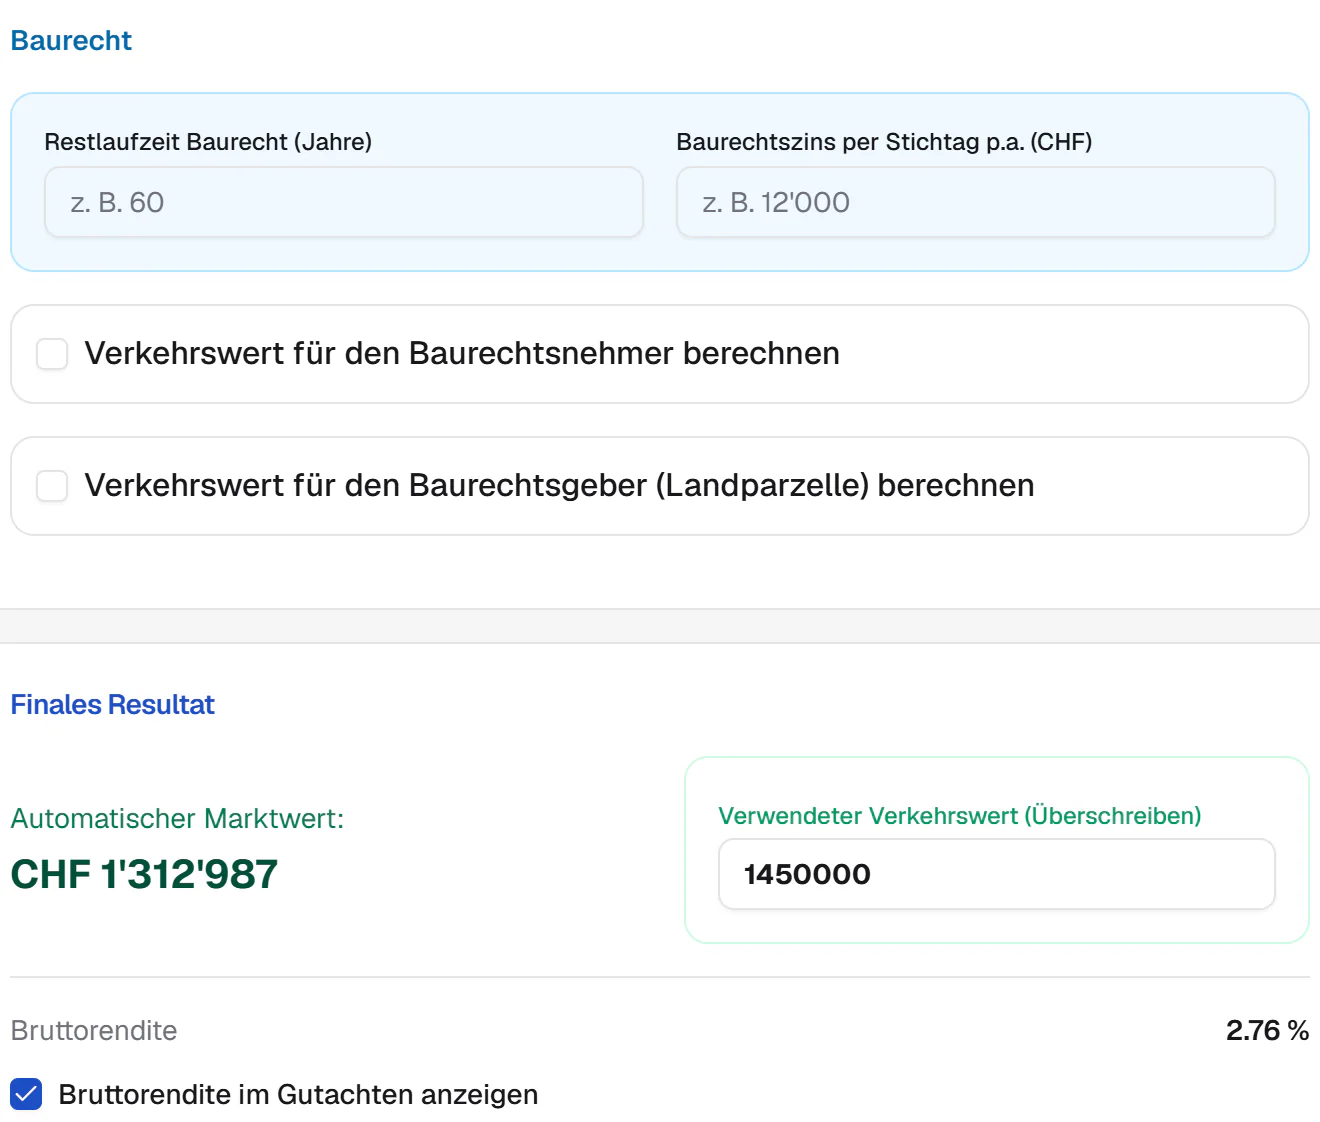
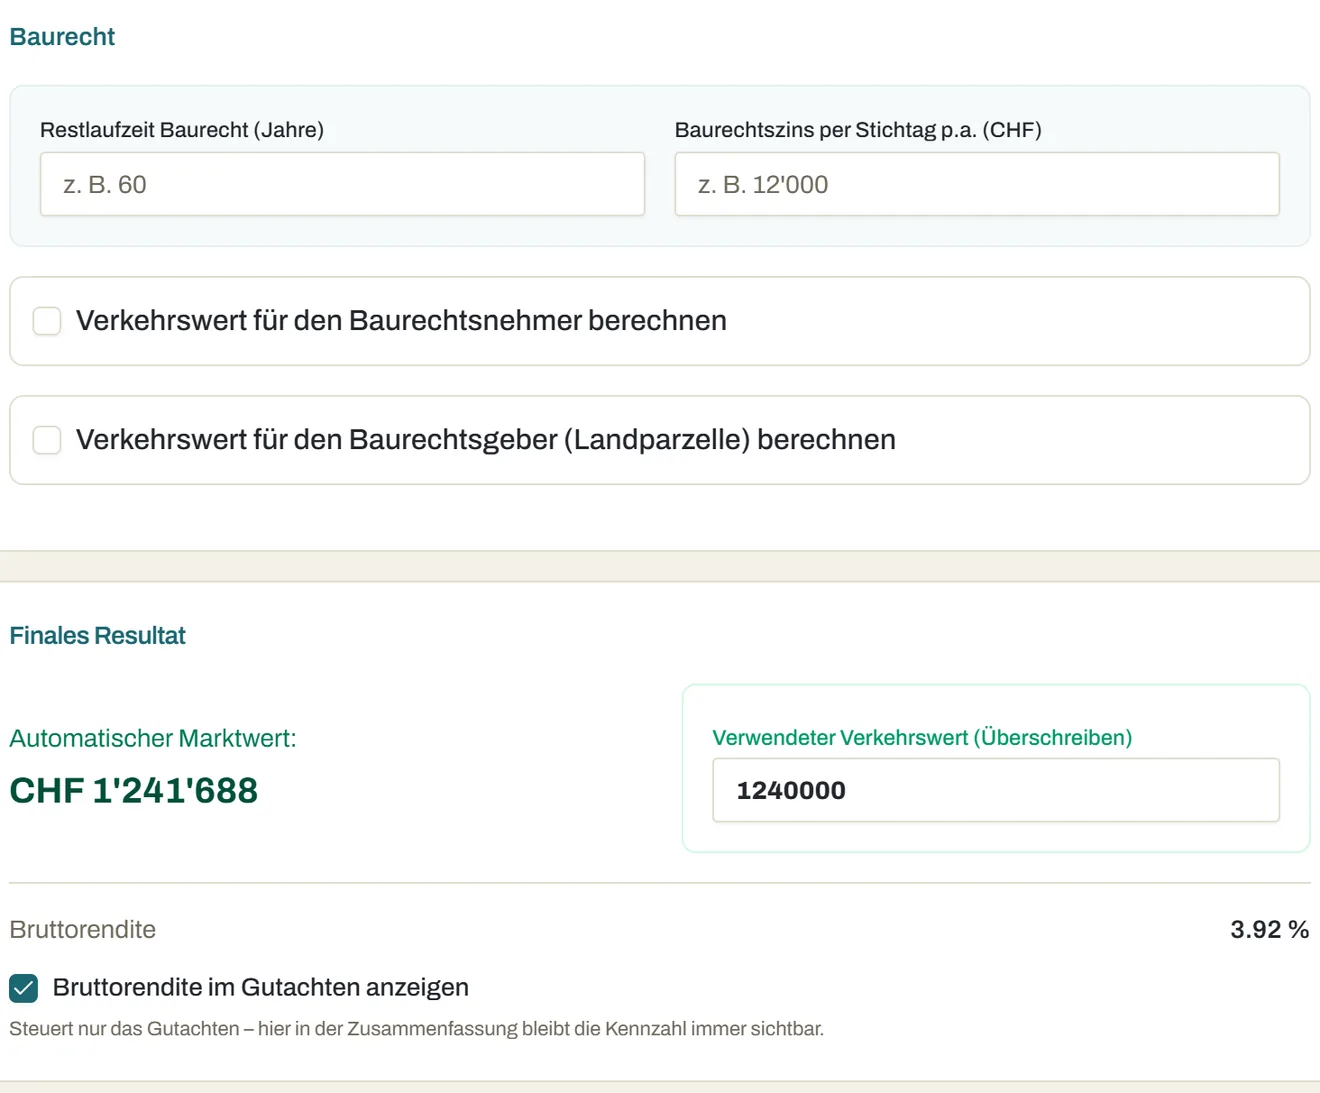
Beispiele: Bauteil-Raster und Zusammenfassung von Seestrasse 14
Die zwei Ausschnitte unter «So funktioniert Valanto» und ihre
Lightbox-Ganzansichten stammten von anderen Objekten (Marktwert
CHF 1'312'987 bzw. CHF 1'052'320). Neu zeigen sie dieselbe Bewertung wie
Hero, Dossier und Bewerter-Blatt: Seestrasse 14, 8703 Erlenbach ZH,
automatischer Marktwert CHF 1'241'688, verwendeter Verkehrswert
CHF 1'240'000, Login «Andrea Muster», Badge «Muster».

- Ausschnitte: Karteninhalt (1'464 px) aus einer Aufnahme bei 860 px
  Viewport und Faktor 2, um 10 % auf 1'320 px verkleinert; bei 1080 px
  liegt das Live-Panel heute unter dem Formular und die Karte wäre
  1'885 px breit. Tabellenschrift bei 1440 px über 12 px, Hilfetext
  rund 10 px. Höhen 1173 bzw. 1093 px (width/height im Markup
  nachgezogen), Raster neu mit Baujahr-Feld.
- Lightbox: Aufnahme bei 1080 px (2160 px breit), vom App-Kopf bis zur
  Kartenunterkante, Raster bis «Total Entwertung», Zusammenfassung bis
  «Finales Resultat». Gleiche Werte wie die Ausschnitte.
- Bildunterschriften und Alt-Texte unverändert (keine Zahlen darin).

diff --git a/src/pages/Home.jsx b/src/pages/Home.jsx
@@ -213,12 +213,15 @@ function ProductVideo() {
 }
 
 /* Echte Produkt-Screenshots zur Feature-Karte „Bewertungen mit Dossier" (Issue #5).
-   Auf der Seite stehen Ausschnitte statt Ganzseiten: Bei 1440 px liegt die
-   Tabellenschrift über 11 px, Hilfetext und %-Zeichen im Raster bei rund
-   10 px. Die Lightbox zeigt weiterhin die ganze Ansicht. */
+   Seit 21.10.2026 vom Beispielobjekt Seestrasse 14 (Verkehrswert CHF 1'240'000)
+   wie Hero, Dossier und Bewerter-Blatt. Auf der Seite stehen Ausschnitte statt
+   Ganzseiten: Karteninhalt aus einer 860-px-Aufnahme (Faktor 2), um 10 % auf
+   1320 px verkleinert; bei 1440 px liegt die Tabellenschrift über 12 px,
+   Hilfetext und %-Zeichen bei rund 10 px. Die Lightbox zeigt weiterhin die
+   ganze Ansicht (Aufnahme bei 1080 px, gleiche Werte). */
 const PRODUCT_SHOTS = [
-  { key: 'raster', small: cropRaster1080, large: cropRaster1320, width: 1320, height: 1385, full: shotRaster2160 },
-  { key: 'summary', small: cropSummary1080, large: cropSummary1320, width: 1320, height: 1122, full: shotSummary2160 },
+  { key: 'raster', small: cropRaster1080, large: cropRaster1320, width: 1320, height: 1173, full: shotRaster2160 },
+  { key: 'summary', small: cropSummary1080, large: cropSummary1320, width: 1320, height: 1093, full: shotSummary2160 },
 ]
 
 function Features() {
